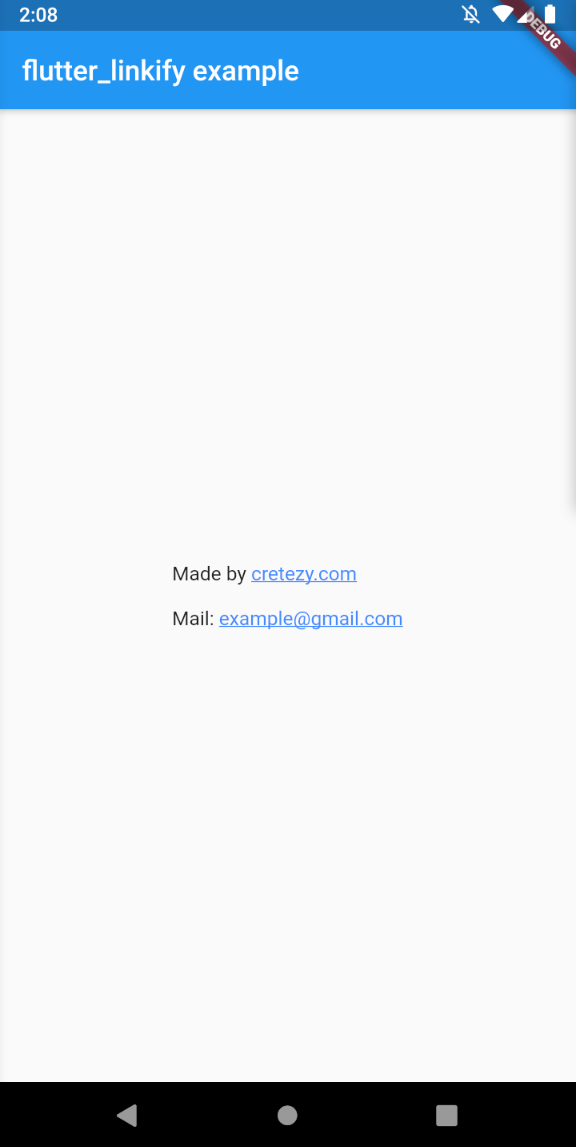
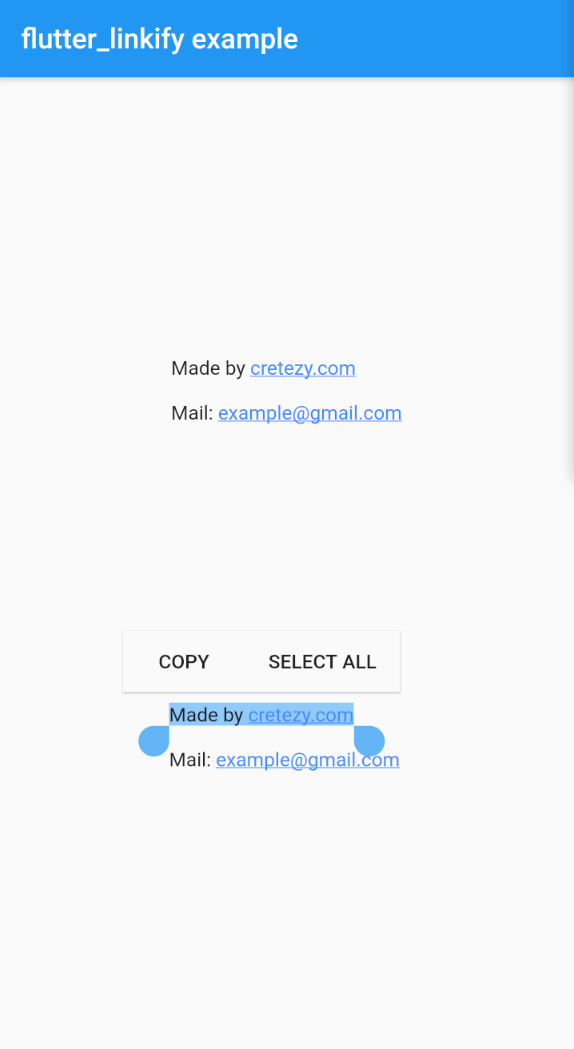
v3.1.0: Selectable text

diff --git a/lib/flutter_linkify.dart b/lib/flutter_linkify.dart
@@ -47,27 +47,47 @@ class Linkify extends StatelessWidget {
   /// Text direction of the text
   final TextDirection textDirection;
 
+  /// The maximum number of lines for the text to span, wrapping if necessary
   final int maxLines;
+
+  /// How visual overflow should be handled.
   final TextOverflow overflow;
 
-  /// Text scale factor
+  /// The number of font pixels for each logical pixel
   final double textScaleFactor;
+
+  /// Whether the text should break at soft line breaks.
+  final bool softWrap;
+
+  /// The strut style used for the vertical layout
+  final StrutStyle strutStyle;
+
+  /// Used to select a font when the same Unicode character can
+  /// be rendered differently, depending on the locale
+  final Locale locale;
+
+  /// Defines how to measure the width of the rendered text.
+  final TextWidthBasis textWidthBasis;
 
   const Linkify({
     Key key,
-    this.text,
+    @required this.text,
     this.linkifiers = defaultLinkifiers,
     this.onOpen,
     this.options,
-    // TextSpawn
+    // TextSpan
     this.style,
     this.linkStyle,
     // RichText
-    this.textAlign,
+    this.textAlign = TextAlign.start,
     this.textDirection,
     this.maxLines,
-    this.overflow,
-    this.textScaleFactor,
+    this.overflow = TextOverflow.clip,
+    this.textScaleFactor = 1.0,
+    this.softWrap = true,
+    this.strutStyle,
+    this.locale,
+    this.textWidthBasis = TextWidthBasis.parent,
   }) : super(key: key);
 
   @override
@@ -83,8 +103,11 @@ class Linkify extends StatelessWidget {
       textDirection: textDirection,
       maxLines: maxLines,
       overflow: overflow,
-      textScaleFactor:
-          textScaleFactor ?? MediaQuery.of(context).textScaleFactor,
+      textScaleFactor: textScaleFactor,
+      softWrap: softWrap,
+      strutStyle: strutStyle,
+      locale: locale,
+      textWidthBasis: textWidthBasis,
       text: buildTextSpan(
         elements,
         style: Theme.of(context).textTheme.body1.merge(style),
@@ -99,6 +122,152 @@ class Linkify extends StatelessWidget {
             )
             .merge(linkStyle),
       ),
+    );
+  }
+}
+
+/// Turns URLs into links
+class SelectableLinkify extends StatelessWidget {
+  /// Text to be linkified
+  final String text;
+
+  /// Linkifiers to be used for linkify
+  final List<Linkifier> linkifiers;
+
+  /// Callback for tapping a link
+  final LinkCallback onOpen;
+
+  /// linkify's options.
+  final LinkifyOptions options;
+
+  // TextSpan
+
+  /// Style for non-link text
+  final TextStyle style;
+
+  /// Style of link text
+  final TextStyle linkStyle;
+
+  // RichText
+
+  /// How the text should be aligned horizontally.
+  final TextAlign textAlign;
+
+  /// Text direction of the text
+  final TextDirection textDirection;
+
+  /// The maximum number of lines for the text to span, wrapping if necessary
+  final int maxLines;
+
+  /// The strut style used for the vertical layout
+  final StrutStyle strutStyle;
+
+  /// Defines how to measure the width of the rendered text.
+  final TextWidthBasis textWidthBasis;
+
+  // SelectableText
+
+  /// Defines the focus for this widget.
+  final FocusNode focusNode;
+
+  /// Whether to show cursor
+  final bool showCursor;
+
+  /// Whether this text field should focus itself if nothing else is already focused.
+  final bool autofocus;
+
+  /// Configuration of toolbar options
+  final ToolbarOptions toolbarOptions;
+
+  /// How thick the cursor will be
+  final double cursorWidth;
+
+  /// How rounded the corners of the cursor should be
+  final Radius cursorRadius;
+
+  /// The color to use when painting the cursor
+  final Color cursorColor;
+
+  /// Determines the way that drag start behavior is handled
+  final DragStartBehavior dragStartBehavior;
+
+  /// If true, then long-pressing this TextField will select text and show the cut/copy/paste menu,
+  /// and tapping will move the text caret
+  final bool enableInteractiveSelection;
+
+  /// Called when the user taps on this selectable text (not link)
+  final GestureTapCallback onTap;
+
+  final ScrollPhysics scrollPhysics;
+
+  const SelectableLinkify({
+    Key key,
+    @required this.text,
+    this.linkifiers = defaultLinkifiers,
+    this.onOpen,
+    this.options,
+    // TextSpan
+    this.style,
+    this.linkStyle,
+    // RichText
+    this.textAlign,
+    this.textDirection,
+    this.maxLines,
+    // SelectableText
+    this.focusNode,
+    this.strutStyle,
+    this.showCursor = false,
+    this.autofocus = false,
+    this.toolbarOptions,
+    this.cursorWidth = 2.0,
+    this.cursorRadius,
+    this.cursorColor,
+    this.dragStartBehavior = DragStartBehavior.start,
+    this.enableInteractiveSelection = true,
+    this.onTap,
+    this.scrollPhysics,
+    this.textWidthBasis,
+  }) : super(key: key);
+
+  @override
+  Widget build(BuildContext context) {
+    final elements = linkify(
+      text,
+      options: options,
+      linkifiers: linkifiers,
+    );
+
+    return SelectableText.rich(
+      buildTextSpan(
+        elements,
+        style: Theme.of(context).textTheme.body1.merge(style),
+        onOpen: onOpen,
+        linkStyle: Theme.of(context)
+            .textTheme
+            .body1
+            .merge(style)
+            .copyWith(
+              color: Colors.blueAccent,
+              decoration: TextDecoration.underline,
+            )
+            .merge(linkStyle),
+      ),
+      textAlign: textAlign,
+      textDirection: textDirection,
+      maxLines: maxLines,
+      focusNode: focusNode,
+      strutStyle: strutStyle,
+      showCursor: showCursor,
+      autofocus: autofocus,
+      toolbarOptions: toolbarOptions,
+      cursorWidth: cursorWidth,
+      cursorRadius: cursorRadius,
+      cursorColor: cursorColor,
+      dragStartBehavior: dragStartBehavior,
+      enableInteractiveSelection: enableInteractiveSelection,
+      onTap: onTap,
+      scrollPhysics: scrollPhysics,
+      textWidthBasis: textWidthBasis,
     );
   }
 }

diff --git a/example/lib/main.dart b/example/lib/main.dart
@@ -10,16 +10,28 @@ class LinkifyExample extends StatelessWidget {
   @override
   Widget build(BuildContext context) {
     return new MaterialApp(
+      debugShowCheckedModeBanner: false,
       title: 'flutter_linkify example',
       home: Scaffold(
         appBar: AppBar(
           title: Text('flutter_linkify example'),
         ),
-        body: Center(
-          child: Linkify(
-            onOpen: _onOpen,
-            text: "Made by https://cretezy.com\n\nMail: example@gmail.com",
-          ),
+        body: Column(
+          mainAxisAlignment: MainAxisAlignment.spaceEvenly,
+          children: <Widget>[
+            Center(
+              child: Linkify(
+                onOpen: _onOpen,
+                text: "Made by https://cretezy.com\n\nMail: example@gmail.com",
+              ),
+            ),
+            Center(
+              child: SelectableLinkify(
+                onOpen: _onOpen,
+                text: "Made by https://cretezy.com\n\nMail: example@gmail.com",
+              ),
+            ),
+          ],
         ),
       ),
     );

diff --git a/README.md b/README.md
@@ -10,7 +10,7 @@ Install by adding this package to your `pubspec.yaml`:
 
 ```yaml
 dependencies:
-  flutter_linkify: ^3.0.0
+  flutter_linkify: ^3.1.0
 ```
 
 It is highly recommend that you also add a dependency on [`url_launcher`](https://pub.dartlang.org/packages/url_launcher) to open links in the browser/OS.
@@ -50,6 +50,8 @@ Linkify(
 );
 ```
 
+All `RichText` options are available for use.
+
 ### Linkify Options
 
 By default, humanization (removal of `http://` or `https://` from the start of the URL) is enabled. You may disable it by passing `options`:
@@ -58,6 +60,16 @@ By default, humanization (removal of `http://` or `https://` from the start of t
 Linkify(
   text: "Made by https://cretezy.com",
   options: LinkifyOptions(humanize: false),
+);
+```
+
+### Selectable Text
+
+Use the `SelectableLinkify` widget to create selectable text. All `SelectableText` options are available for use.
+
+```dart
+SelectableLinkify(
+  text: "Made by https://cretezy.com\n\nMail: example@gmail.com",
 );
 ```
 

diff --git a/CHANGELOG.md b/CHANGELOG.md
@@ -1,3 +1,8 @@
+## [3.1.0] - 2020-01-10
+
+- Add `SelectableLinkify`, for selectable linkified text
+- Add all props for RichText
+
 ## [3.0.0] - 2019-12-27
 
 - Update to `linkify` v2.0.0.
